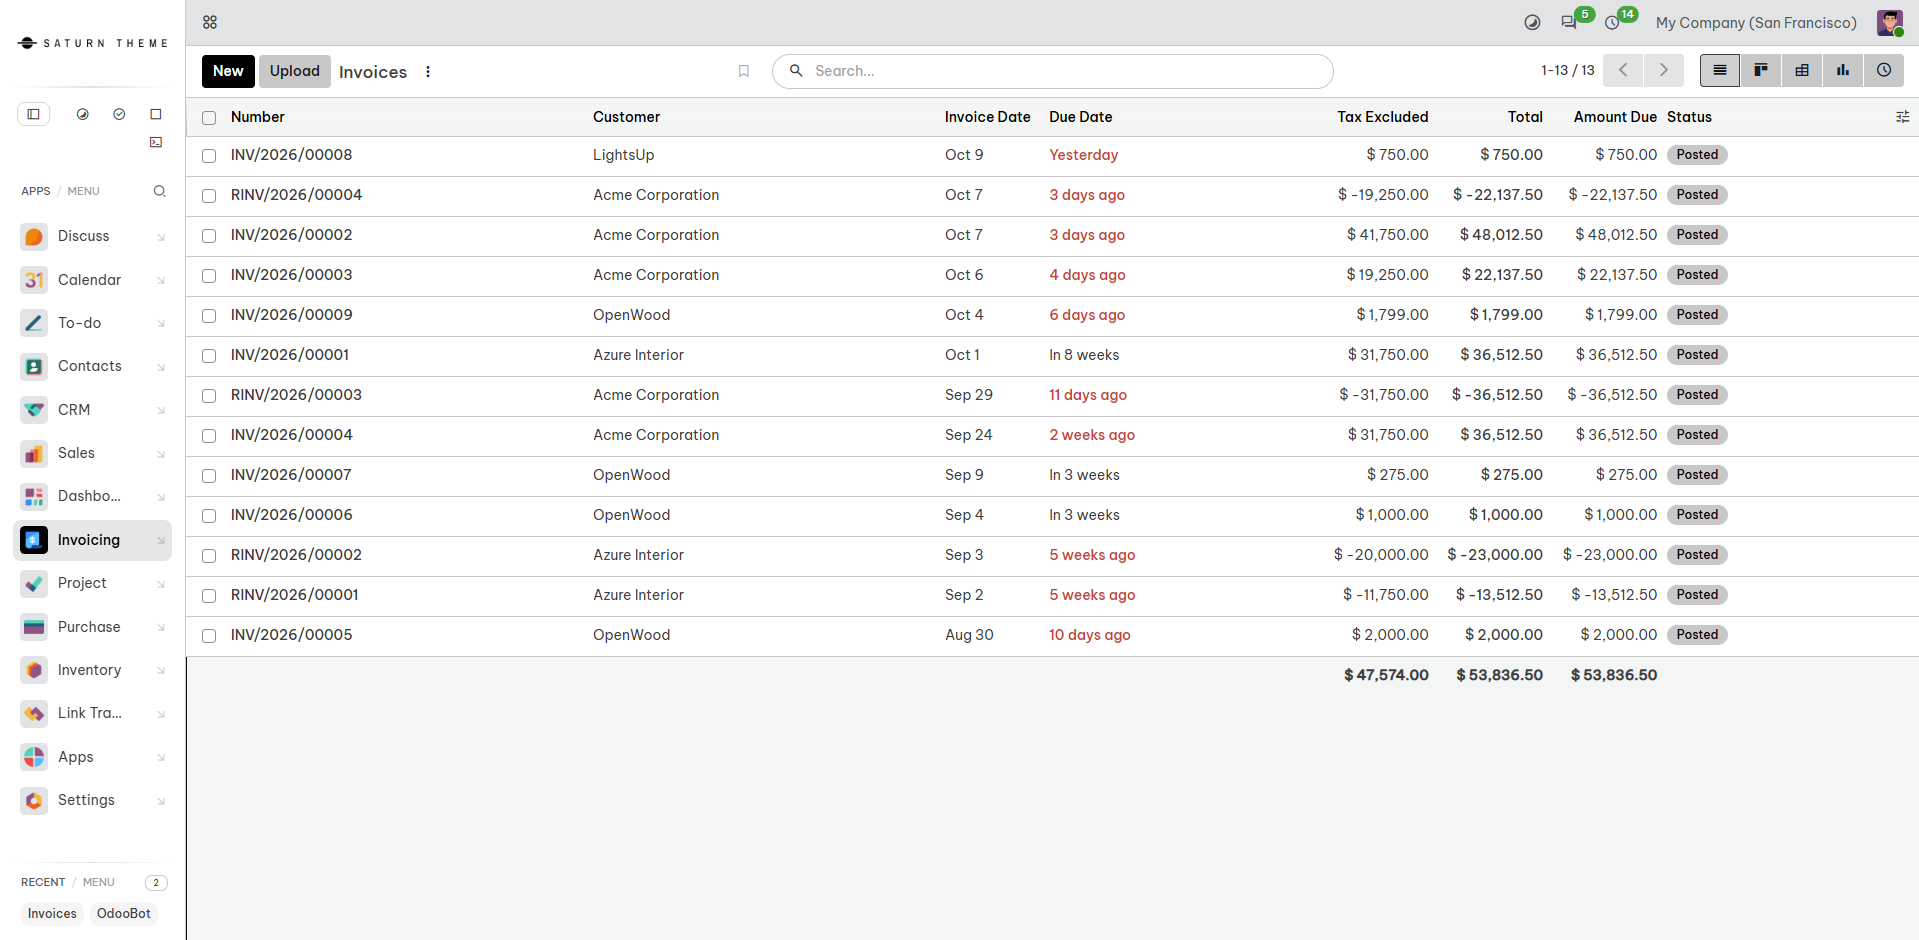
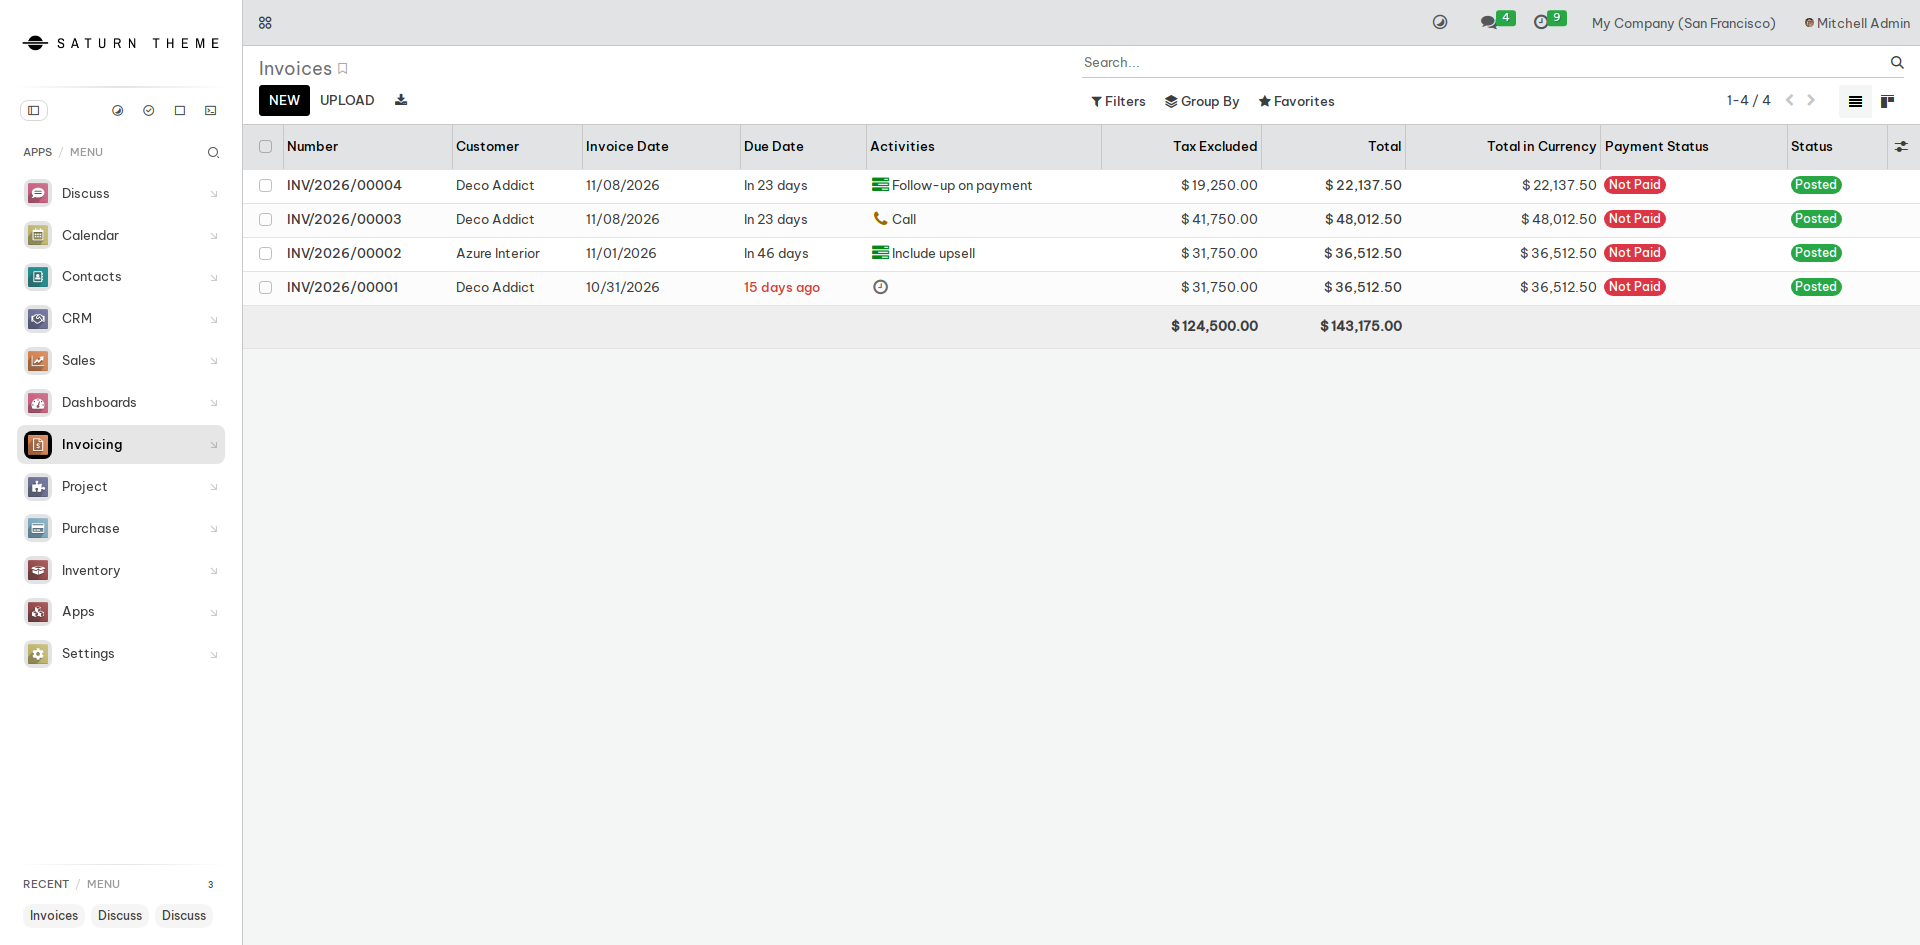
Retake store screenshots on Odoo 16.0, credit Manh Nguyen
Retake the nine description screenshots and the banner on Odoo 16.0 with
demo data, so the store page shows this version rather than Odoo 20.
Credit Manh Nguyen <parabol123654@gmail.com> in the description page
support line and the module LICENSE.

diff --git a/saturn_backend/static/description/index.html b/saturn_backend/static/description/index.html
@@ -128,6 +128,6 @@
       <li>Depends only on <code>web</code> and <code>mail</code></li>
     </ul>
     <h3 style="font-size:20px;font-weight:700;color:#141416;margin:0 0 10px;">Support</h3>
-    <p style="font-size:15px;color:#3a3a44;margin:0;">Questions or issues? Contact Sanxus Lab at <a href="https://sanxus.com" target="_blank">sanxus.com</a>.</p>
+    <p style="font-size:15px;color:#3a3a44;margin:0;">Questions or issues? Contact Manh Nguyen at <a href="mailto:parabol123654@gmail.com">parabol123654@gmail.com</a>.</p>
   </div>
 </section>
